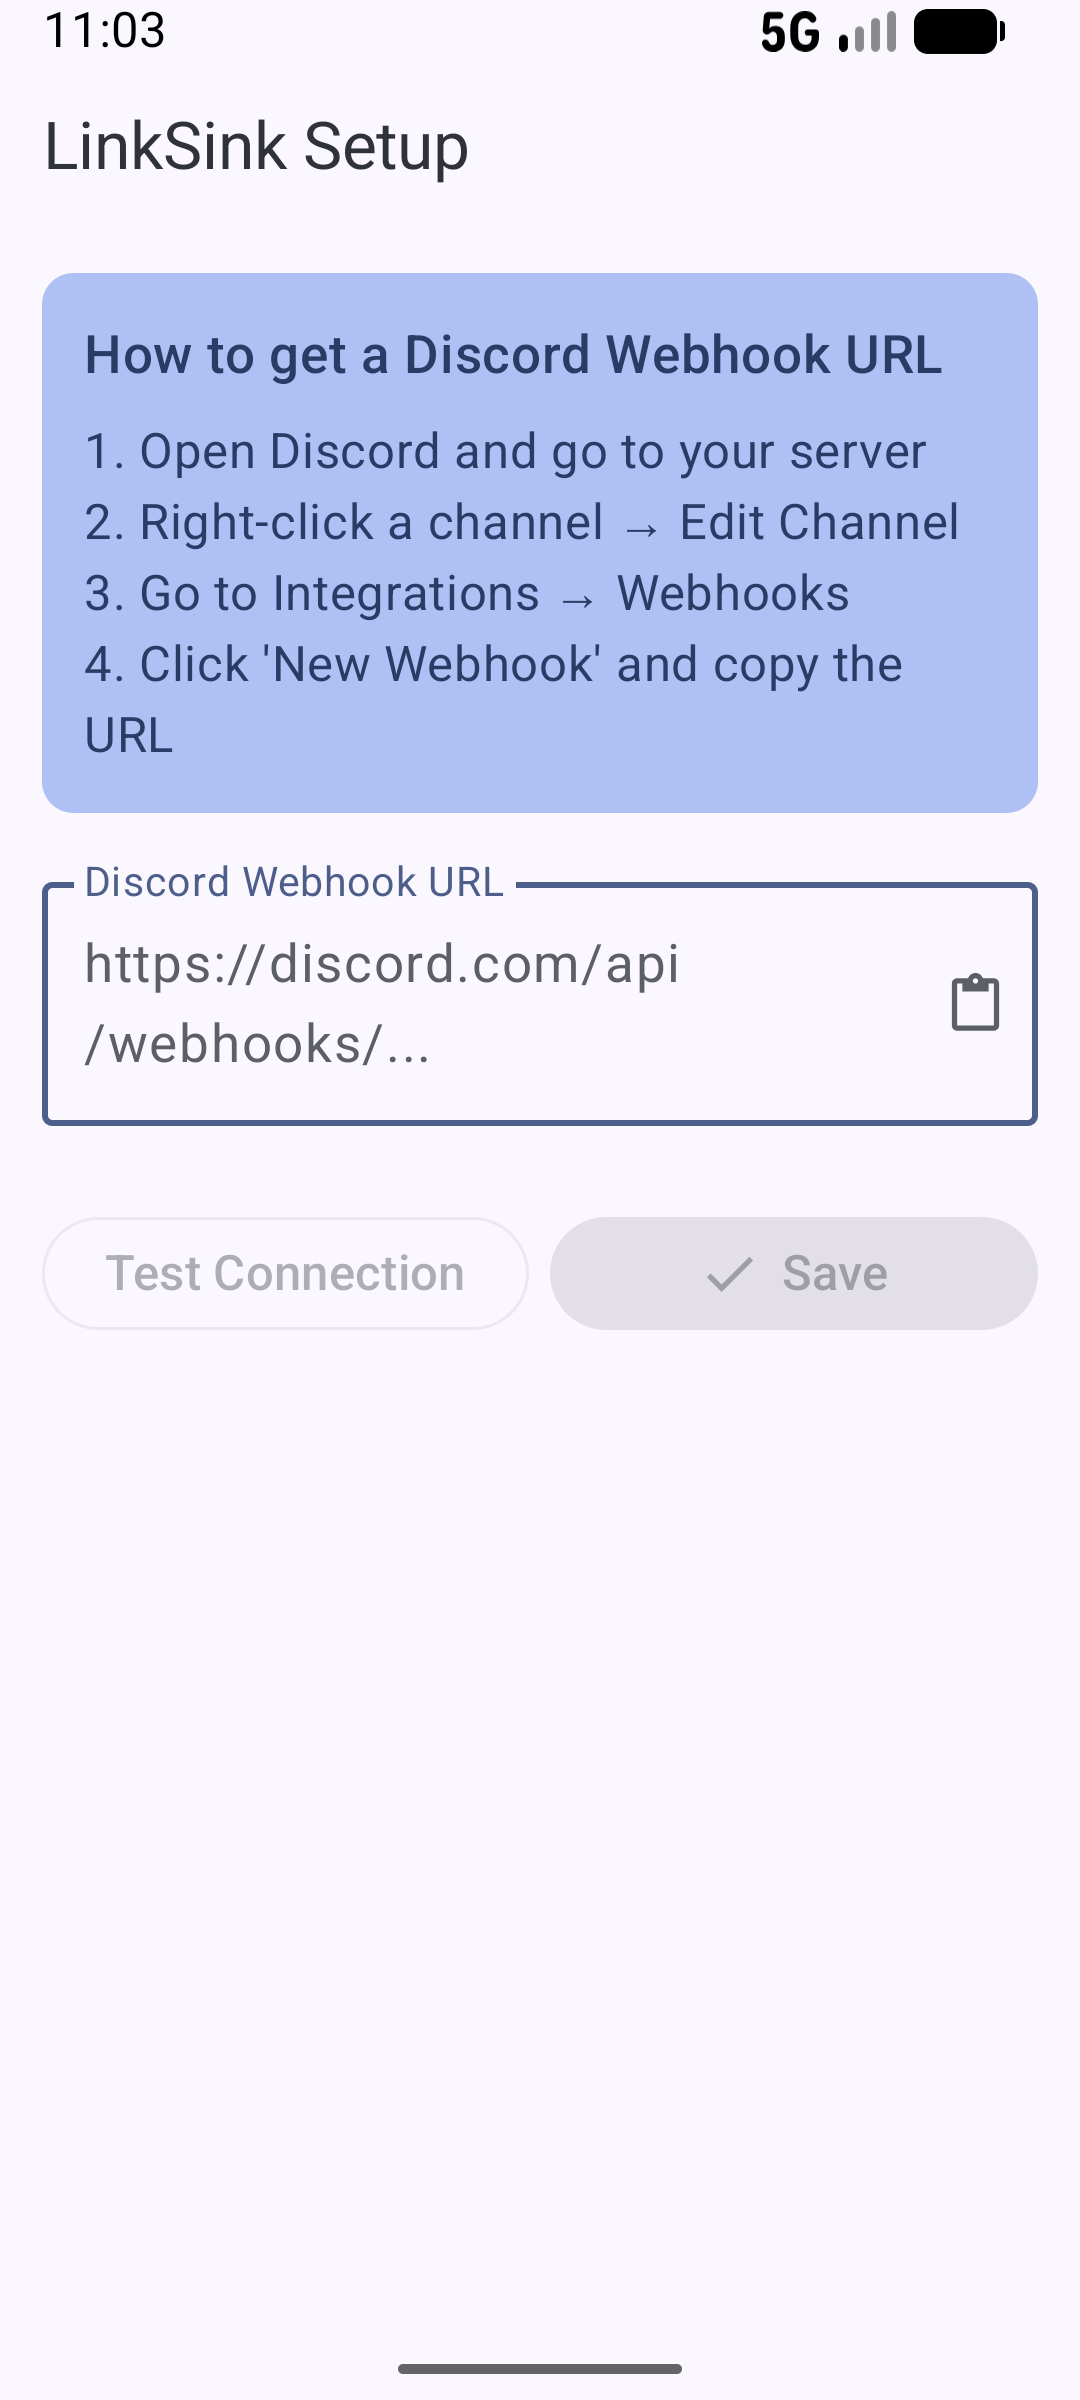
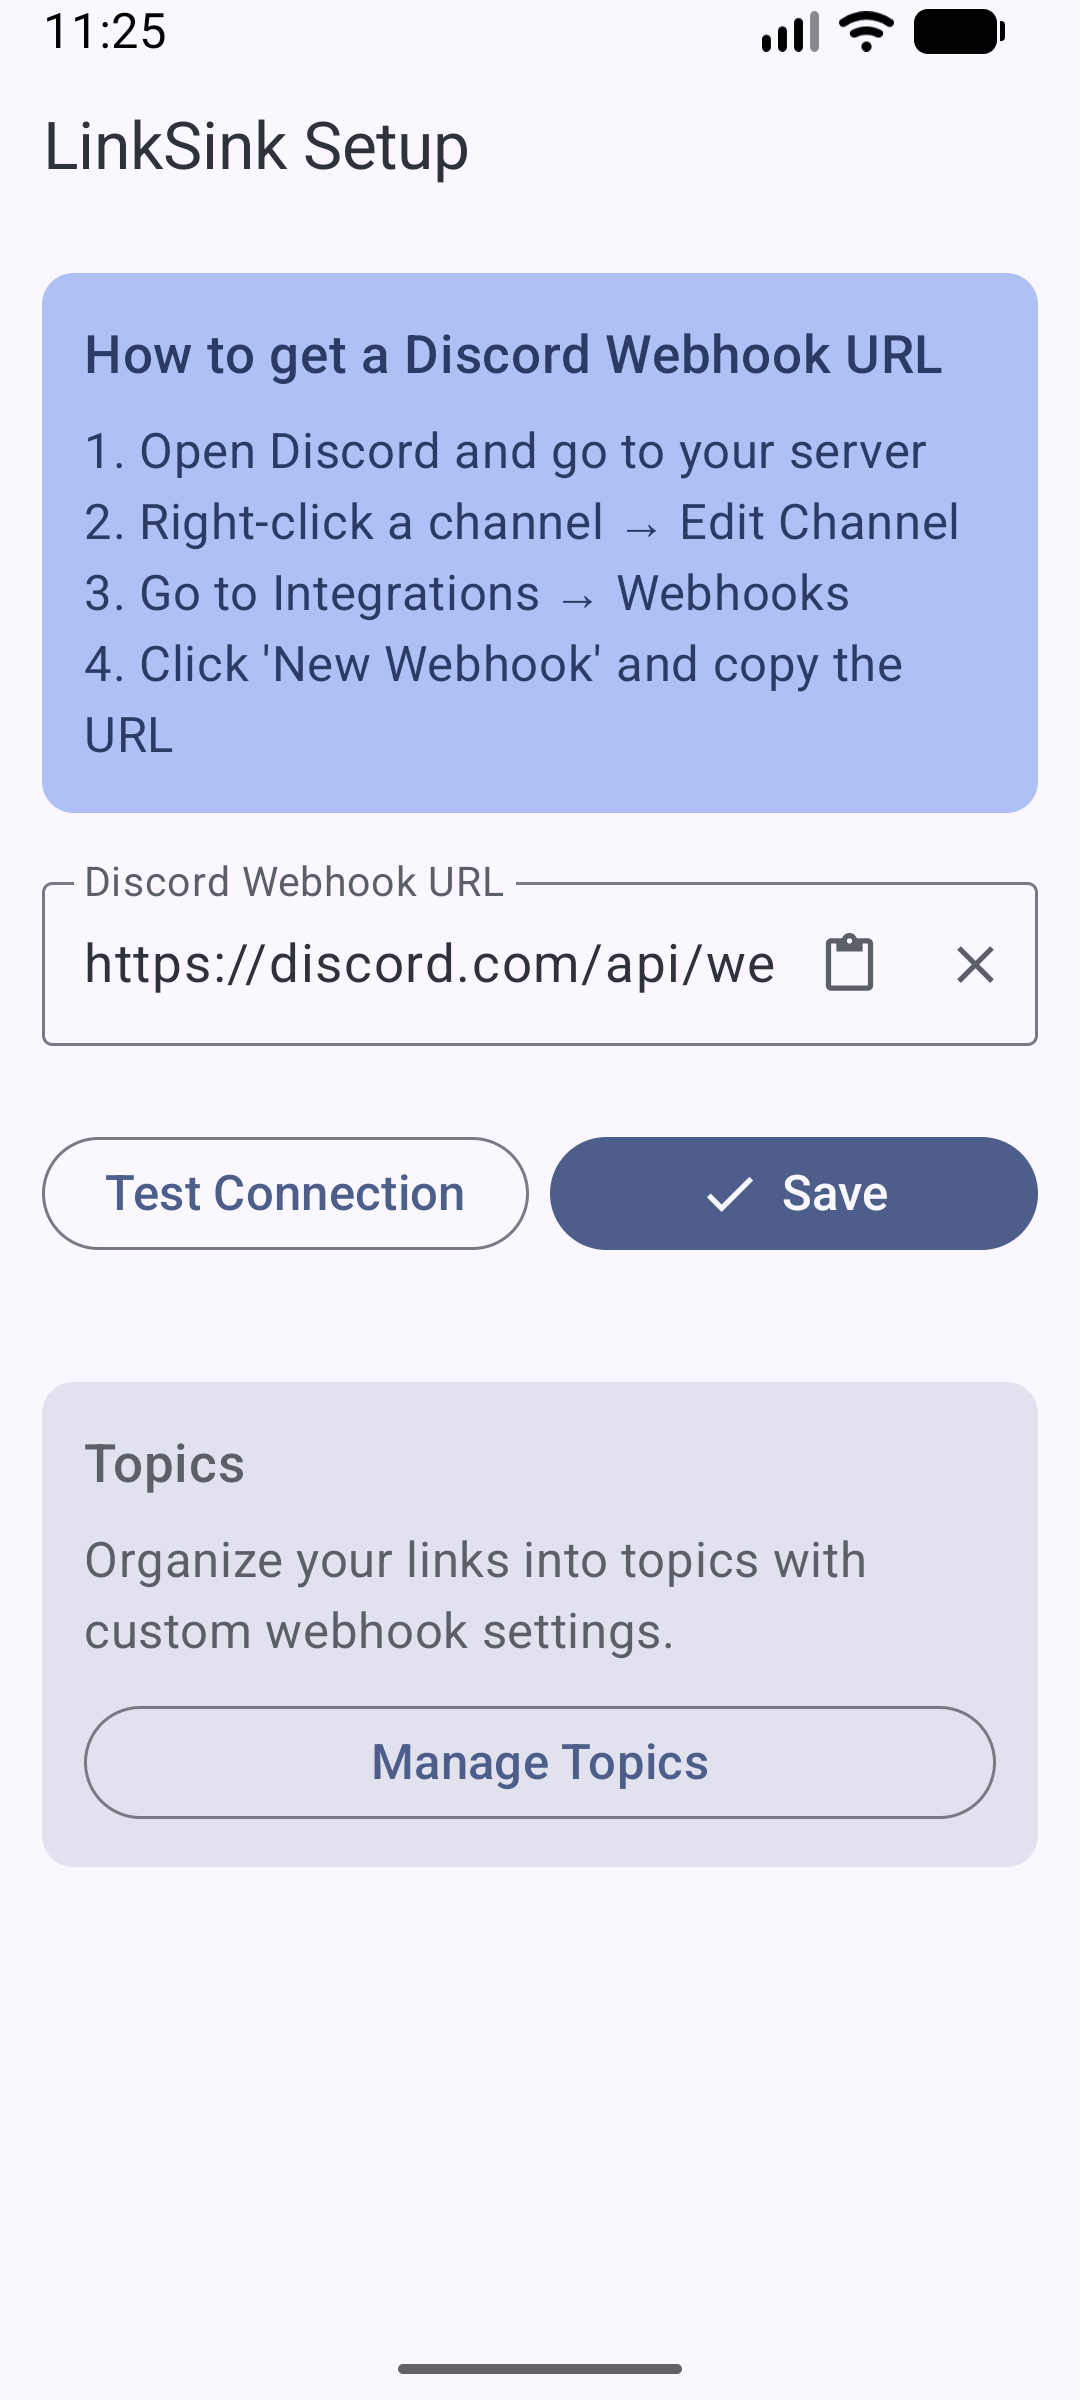
docs: update changelog and metadata for v1.1.0
- Add CHANGELOG.md with v1.1.0 release notes
- Update README with typo-tolerant fuzzy search description
- Add fastlane changelog for v1.1.0 (versionCode 2)
- Update full_description.txt with fuzzy search details

diff --git a/CHANGELOG.md b/CHANGELOG.md
@@ -1,0 +1,41 @@
+# Changelog
+
+All notable changes to LinkSink will be documented in this file.
+
+The format is based on [Keep a Changelog](https://keepachangelog.com/en/1.1.0/),
+and this project adheres to [Semantic Versioning](https://semver.org/spec/v2.0.0.html).
+
+## [1.1.0] - 2026-03-22
+
+### Added
+- **Topics** - Organize links into topics with custom names
+- **Per-topic webhooks** - Each topic can use LOCAL_ONLY, global webhook, or a custom webhook URL
+- **Fuzzy search** - Search links by URL or title with typo tolerance (e.g., "rect" finds "React")
+- **Date filtering** - Filter links by Today, This Week, or This Month
+- **Link metadata** - Automatically fetches title, description, and thumbnail from Open Graph/Twitter Card tags
+- **Topic management screen** - Create, edit, and delete topics from Settings
+- **Topic picker** - Quick topic selection in share sheet with recent topics
+- **Filter chips** - Visual display of active filters with one-tap clearing
+- **Topic display** - Links show their assigned topic in the list
+
+### Changed
+- Enhanced share sheet with topic selection
+- Improved link card layout with topic chip
+- Database migrated to v3 with topics table
+
+### Technical
+- Room database migration v1 → v2 → v3
+- In-memory fuzzy search using kt-fuzzy library (better device compatibility than FTS)
+- WebhookRouter pure function for webhook resolution
+- MetadataFetcher with regex-based Open Graph parsing
+
+## [1.0.0] - 2026-03-15
+
+### Added
+- Initial release
+- Save links from any app via share menu
+- Sync links to Discord using webhooks
+- Local-first with offline support
+- Material You dynamic theming
+- Background sync with WorkManager
+- Swipe to delete links

diff --git a/README.md b/README.md
@@ -7,11 +7,22 @@ LinkSink is a simple, privacy-focused Android app for saving links from any app 
 ## Features
 
 - **Share from anywhere** - Use Android's share menu to save links from any app
+- **Topics** - Organize links into topics with custom webhook settings
 - **Discord sync** - Automatically post saved links to Discord channels via webhooks
+- **Fuzzy search** - Find links quickly with typo-tolerant search across URLs and titles
+- **Date filtering** - Filter links by Today, This Week, or This Month
+- **Link metadata** - Auto-fetch title, description, and thumbnail from URLs
 - **Local-first** - Your data stays on your device with offline support
 - **Background sync** - Links sync automatically when you're back online
 - **Material You** - Dynamic theming that adapts to your system colors
 - **Swipe to delete** - Clean gesture-based link management
+
+### Topic Webhook Modes
+
+Each topic can have its own webhook configuration:
+- **Local Only** - Keep links private, no Discord sync
+- **Use Global** - Use your default webhook URL
+- **Custom** - Set a unique webhook per topic (great for different Discord channels)
 
 ## Screenshots
 
@@ -95,3 +106,4 @@ Contributions are welcome! Please feel free to submit issues and pull requests.
 - Collecting research links
 - Sharing discoveries with Discord communities
 - Building a personal link archive
+- Organizing links by project or interest
